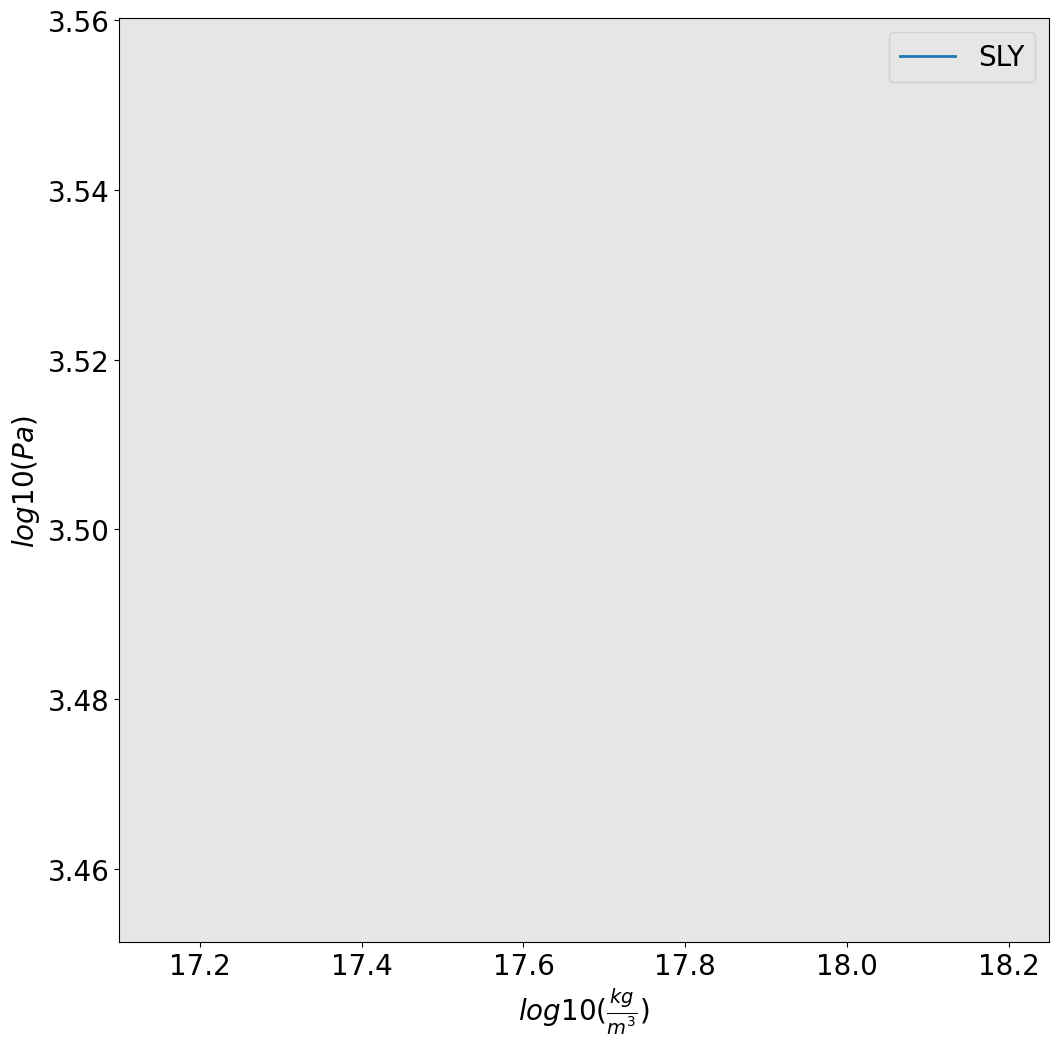
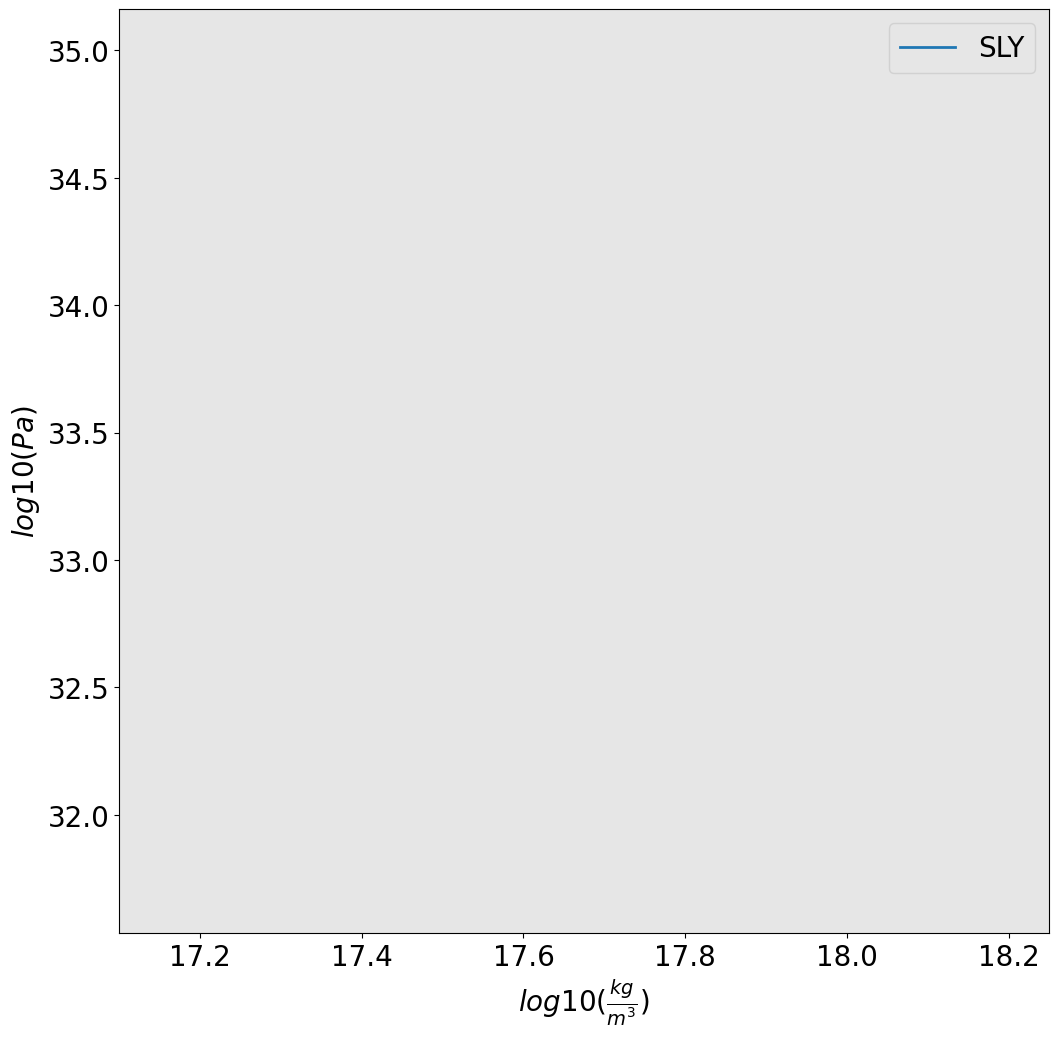
Plots. 35 attempt.

diff --git a/joint_inference/development/SpringPresentation.py b/joint_inference/development/SpringPresentation.py
@@ -39,7 +39,7 @@ def namedEoS_p_rho(EoS_Name):
     pl.rc('ytick', direction='out', color='black', labelcolor='black')
     pl.rc('lines', linewidth=2)
 
-    pl.plot(np.log(density_grid), np.log(logp_grid), label=EoS_Name)
+    pl.plot(np.log(density_grid), logp_grid, label=EoS_Name)
 
     pl.xlim([17.1, 18.25])
     pl.xlabel(r'$log10(\frac{kg}{m^3})$')
